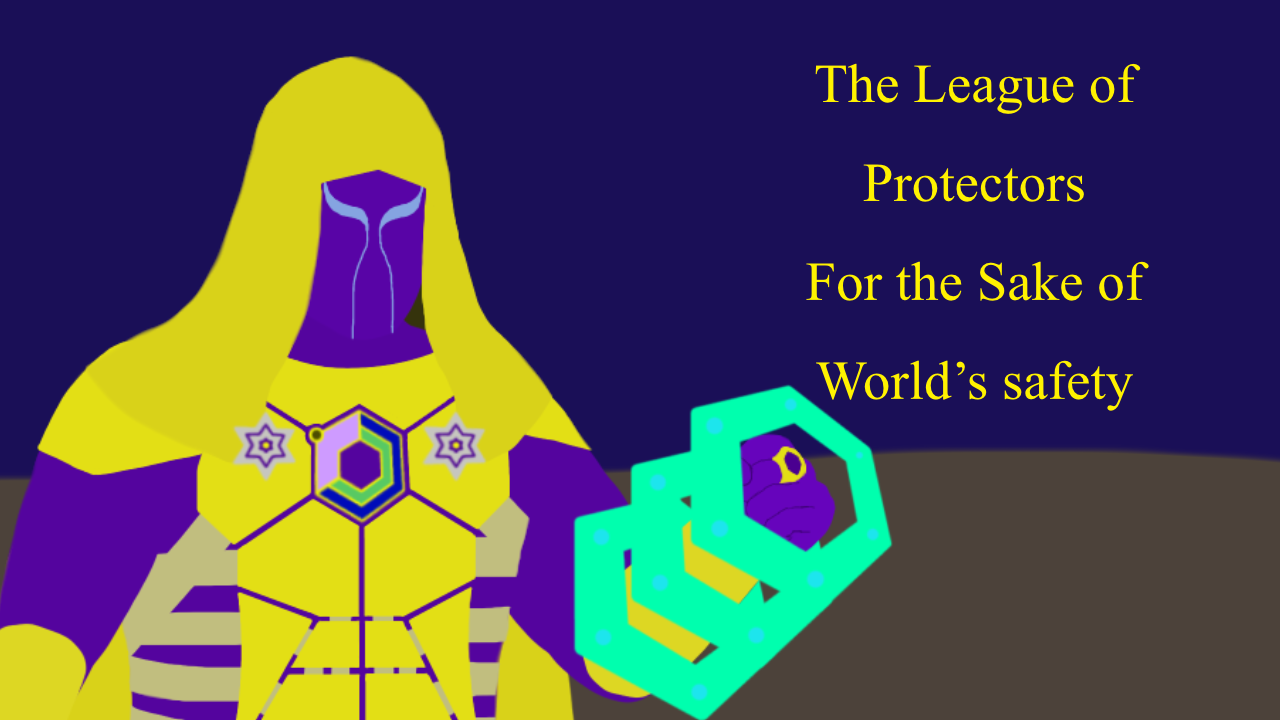
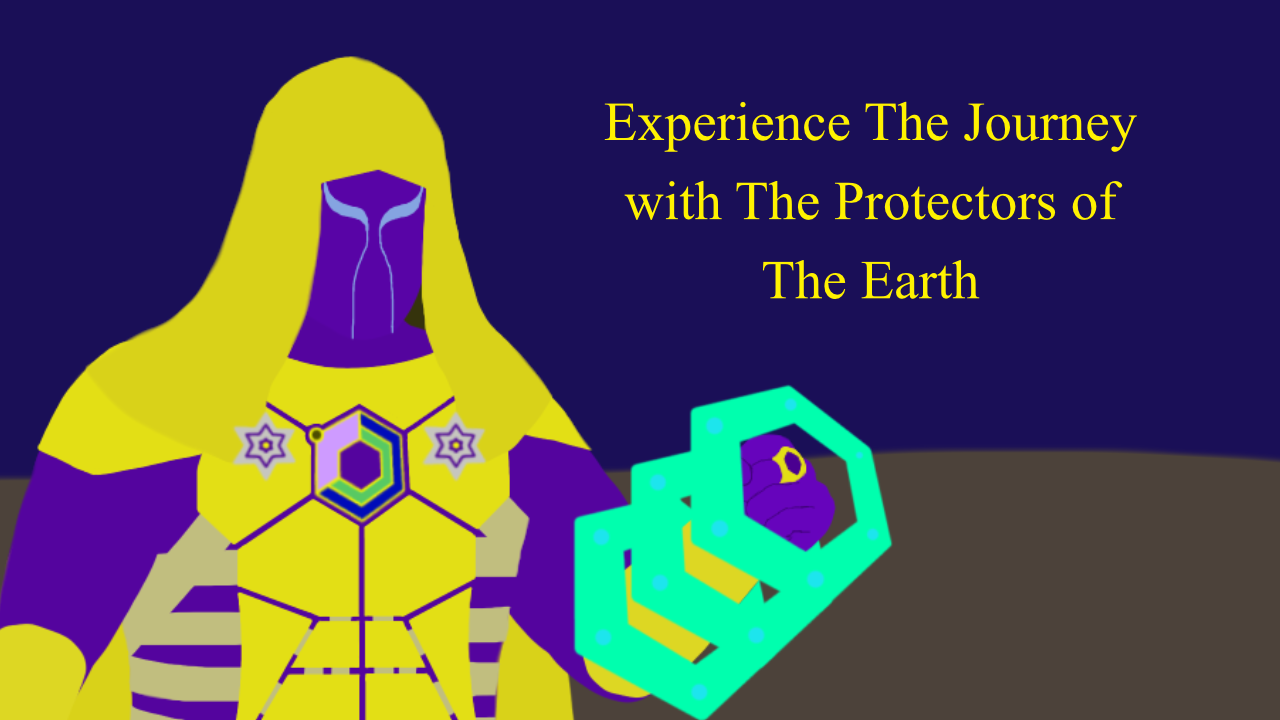
Little fixes

diff --git a/src/components/banner/Banner.jsx b/src/components/banner/Banner.jsx
@@ -1,6 +1,6 @@
 import BannerAnim, { Element } from 'rc-banner-anim';
 import 'rc-banner-anim/assets/index.css';
-import { banner0, banner1, banner2, banner3, banner4 } from './imports'
+import { banner0, banner1, banner2, banner3, banner4, banner5 } from './imports'
 import './banner.css'
 
 const BgElement = Element.BgElement;
@@ -21,6 +21,9 @@ const Banner = () => {
                 <BgElement className="bg" style={{ backgroundImage: `url(${banner4})`, backgroundRepeat: "no-repeat", backgroundSize: 800 }} />
             </Element>
             <Element prefixCls="banner-user-elem" key="4">
+                <BgElement className="bg" style={{ backgroundImage: `url(${banner5})`, backgroundRepeat: "no-repeat", backgroundSize: 800 }} />
+            </Element>
+            <Element prefixCls="banner-user-elem" key="5">
                 <BgElement className="bg" style={{ backgroundImage: `url(${banner0})`, backgroundRepeat: "no-repeat", backgroundSize: 800 }} />
             </Element>
         </BannerAnim>

diff --git a/src/components/bookPage/bookPage.css b/src/components/bookPage/bookPage.css
@@ -59,12 +59,16 @@
     display: flex;
     justify-content: space-between;
     align-items: center;
-    flex-direction: row;
+    flex-direction: column;
 
-    padding-bottom: 5cm;
+    padding-bottom: 2cm;
     margin-left: 22rem;
     margin-right: 22rem;
-    background: white;
+    background: palegoldenrod;
+}
+
+.hex__bookPage-pageNumber {
+    text-align: center;
 }
 
 .hex__bookPage-pageChange {
@@ -74,7 +78,9 @@
 }
 
 .hex__bookPage-page p {
-    margin: 4rem;
+    margin-top: 4rem;
+    margin-left: 4rem;
+    margin-right: 4rem;
 }
 
 @media screen and (max-width: 650px) {

diff --git a/src/components/banner/imports.js b/src/components/banner/imports.js
@@ -3,11 +3,13 @@ import banner1 from '../../assets/banners/banner1.png';
 import banner2 from '../../assets/banners/banner2.png';
 import banner3 from '../../assets/banners/banner3.png';
 import banner4 from '../../assets/banners/banner4.png';
+import banner5 from '../../assets/banners/banner5.png';
 
 export {
     banner0,
     banner1,
     banner2,
     banner3,
-    banner4
+    banner4,
+    banner5
 }

diff --git a/src/components/bookPage/BookPage.jsx b/src/components/bookPage/BookPage.jsx
@@ -66,6 +66,7 @@ const BookPage = (title) => {
         </div>
         <div className='hex__bookPage-page'>
           <ShowContent />
+          <p className='hex__bookPage-pageNumber'>{pageNumber}</p>
         </div>
         <RenderButtons />
       </div>
